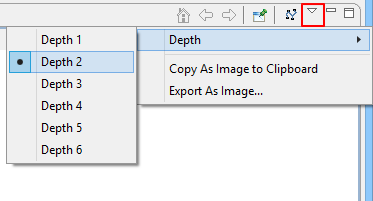
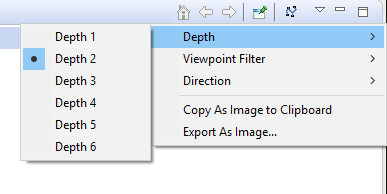
[visualizer-filter] Update help files

diff --git a/com.archimatetool.help/help/Text/visualiser.html b/com.archimatetool.help/help/Text/visualiser.html
@@ -18,13 +18,23 @@
 	<p class="caption">The Visualiser Window</p>
 	
 	<p>To use the Visualiser, select any element or relationship in the Model Tree, the Navigator, or in a View. The Visualiser will update to reflect the current selection. The Visualiser highlights the selected element and shows all relationships and any connected elements. Double-clicking on one of the connected elements allows you to "Go Into" to the element so that it is the focal central element, and all of its relationships and connected elements are displayed. You can also "Go Into" an element from the toolbar in the Visualiser window, and also select "Back" to return to the previous element. Select "Home" on the toolbar to return to the first selected element.</p>
+    
+    <h2>Depth</h2>
 
 	<p>The Visualiser will display the selected element's connected elements to a default depth of one level (immediate connections). To change the depth level of how far the connections are calculated, select the Depth level from the drop-down menu in the Visualiser window:</p>
 
 	<img src="../Images/visualiser_menu.png" alt="The Visualiser Menu"/>
 	<p class="caption">The Visualiser Menu for Depth</p>
 
-	<p>Selecting an element or relationship in the Model Tree, the Navigator, or in a View will update the focussed selection in the Visualiser window. To stop this from updating, you can press the "Pins the current view" button on the toolbar in the Visualiser window.</p>
+    <h2>Viewpoint Filter</h2>
+
+	<p>You can filter the displayed elements in the Visualiser from the "Viewpoint Filter" menu. This will display only those elements that are permissable in the given Viewpoint. To view all elements select the "Total" Viewpoint. For more information see the <a href="viewpoints.html">Viewpoints</a> section.</p>
+    
+    <h2>Direction</h2>
+
+	<p>This menu item allows you to set whether relationships incoming and outgoing relationships and their connected elements are displayed. Options are "Both", "In" and "Out". "In" shows all incoming relationships, "Out" shows outgoing relationships, while "Both" shows both incoming and outgoing relationships. This is similar to the functionality in the <a href="navigator.html">Navigator</a>.</p>
+    
+    <h2>Options</h2>
 
 	<p>The first time a focussed element is displayed in the Visualiser window it is laid out with an animation. This animation can be turned off in <a href="prefs_general.html">Preferences</a>. If you wish to re-layout, you can press the "Layout" button on the toolbar in the Visualiser window.</p>
     
